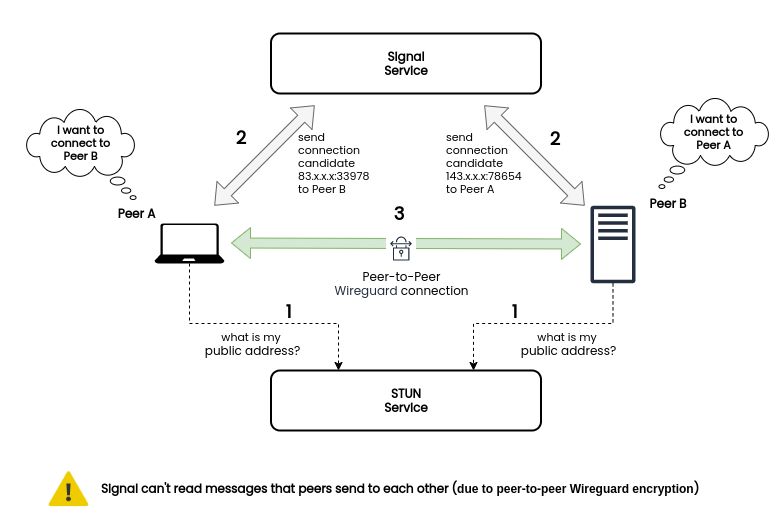
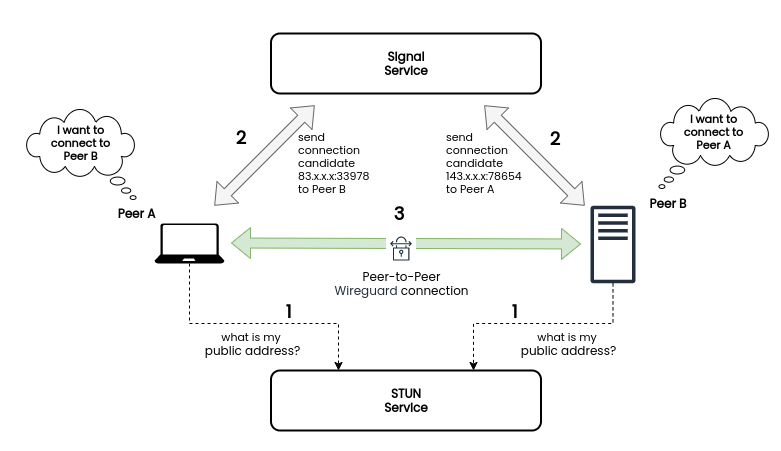
chore: docs update

Changed region(s): [[0.0307, 0.0621, 0.9834, 0.9933], [0.6453, 0.5898, 0.6761, 0.6208], [0.3688, 0.5898, 0.3995, 0.6208]]

diff --git a/docs/overview/acrchitecture.md b/docs/overview/acrchitecture.md
@@ -67,13 +67,18 @@ The Client's roles are the following:
 
 * **Generating private and public Wireguard keys.** These keys are used for packet encryption between peers and for [Wireguard Cryptokey Routing](https://www.wireguard.com/#cryptokey-routing).
   To accept the incoming connections, peers have to know each other, therefore, the generated public keys have to be pre-shared on the machines. The client application sends its public key to the Management service which then distributes it to the authorized peers.
-  The private key never leaves the machine, ensuring that only the machine that owns the key can decrypt traffic addressed to it.
 * **Handling peer registration and authentication.**  Each peer has to be authenticated and registered in the system. The client application requests a user to log in with an Identity Provider (IDP) or a [setup key](/overview/setup-keys) so that the peer can be associated with the organization's account.
 * **Receiving network updates from the Management service.**
   Each peer receives initial configuration and a list of peers with corresponding public keys and IP addresses so that it can establish a peer-to-peer connection.
 * **Establishing peer-to-peer Wireguard connection.** To establish a connection with a remote peer, the Client first discovers the most suitable connection candidate, or simply address (IP:port) that other peer can use to connect to it. 
   Then sends it to the remote peer via Signal. This message is encrypted with the peer's private key and a public key of the remote peer.
     The remote peer does the same and once the peers can reach each other, they establish an encrypted Wireguard tunnel.
+
+:::important
+
+The **private key**, generated by the Client, **never leaves the machine**, ensuring that only the machine that owns the key can decrypt traffic addressed to it.
+
+:::
 
 ### Signal Service
 
@@ -82,11 +87,17 @@ It does not store any data and no traffic passes through it.
 
 The only Signal's responsibility is:
 * **Serve as a notification mechanism for peers.** Before a connection can be established, peers need to find each other and exchange the most suitable connection candidates.
-  This is done through Signal. After a connection has been established, Signal steps out. Messages that are sent through Signal are peer-to-peer encrypted so that Signal can't decrypt them.
+  This is done through Signal. After a connection has been established, Signal steps out.
 
 <p align="center">
     <img src="/img/architecture/signal.png" alt="signal-dia"/>
 </p>
+
+:::important
+
+**Messages** sent over Signal are **peer-to-peer encrypted**, so Signal can't read them.
+
+:::
 
 Wiretsutee Signal is very similar to the signaling servers used in [WebRTC](https://developer.mozilla.org/en-US/docs/Web/API/WebRTC_API/Signaling_and_video_calling#the_signaling_server).
 It runs in the cloud Wiretrustee-managed and can be self-hosted.
@@ -102,6 +113,12 @@ Similarly to the Signal Service, traffic that flows through the Relay can't be d
 <p align="center">
     <img src="/img/architecture/relay.png" alt="relay-dia"/>
 </p>
+
+:::important
+
+Similar to the Signal, traffic that flows through the Relay can't be decrypted due to the **Wireguard peer-to-peer encryption**.
+
+:::
 
 It runs in the cloud or can be self-hosted.
 

diff --git a/docs/wiretrustee-vs-traditional-vpn.md b/docs/wiretrustee-vs-traditional-vpn.md
@@ -6,6 +6,7 @@ sidebar_position: 5
 
 # Wiretrustee vs. Traditional VPN
 
+### Traditional VPN challenges
 In the traditional VPN model, everything converges on a centralized, protected network where all the clients are connecting to a central VPN server.
 
 An increasing amount of connections can easily overload the VPN server.
@@ -18,6 +19,8 @@ Configuring firewalls, setting up NATs, SSO integration, and managing access con
 
 Traditional centralized VPNs are often compared to a [castle-and-moat](https://en.wikipedia.org/wiki/Moat) model
 in which once accessed, user is trusted and can access critical infrastructure and resources without any restrictions.
+
+### Wiretrustee benefits
 
 Wiretrustee decentralizes networks using direct point-to-point connections, as opposed to traditional models.
 Consequently, network performance is increased since traffic flows directly between the machines bypassing VPN servers or gateways.

diff --git a/docs/introduction.md b/docs/introduction.md
@@ -12,6 +12,12 @@ Wiretrustee can connect machines running anywhere in just a few clicks.
 
 It requires near zero configuration effort leaving behind the hassle of opening ports, complex firewall rules, vpn gateways, and so forth.
 
+:::tip open-source
+Wiretrustee is an **open-source** project.
+
+Check it out on GitHub: **[https://github.com/wiretrustee/wiretrustee](https://github.com/wiretrustee/wiretrustee)**
+:::
+
 There is no centralized VPN server with Wiretrustee - your computers, devices, machines, and servers connect to each other directly over a fast encrypted tunnel.
 
 It literally takes less than 5 minutes to deploy a secure peer-to-peer VPN with Wiretrustee. Check our [Getting Started Video](https://www.youtube.com/watch?v=cWTsGUJAUaU) on YouTube. 
